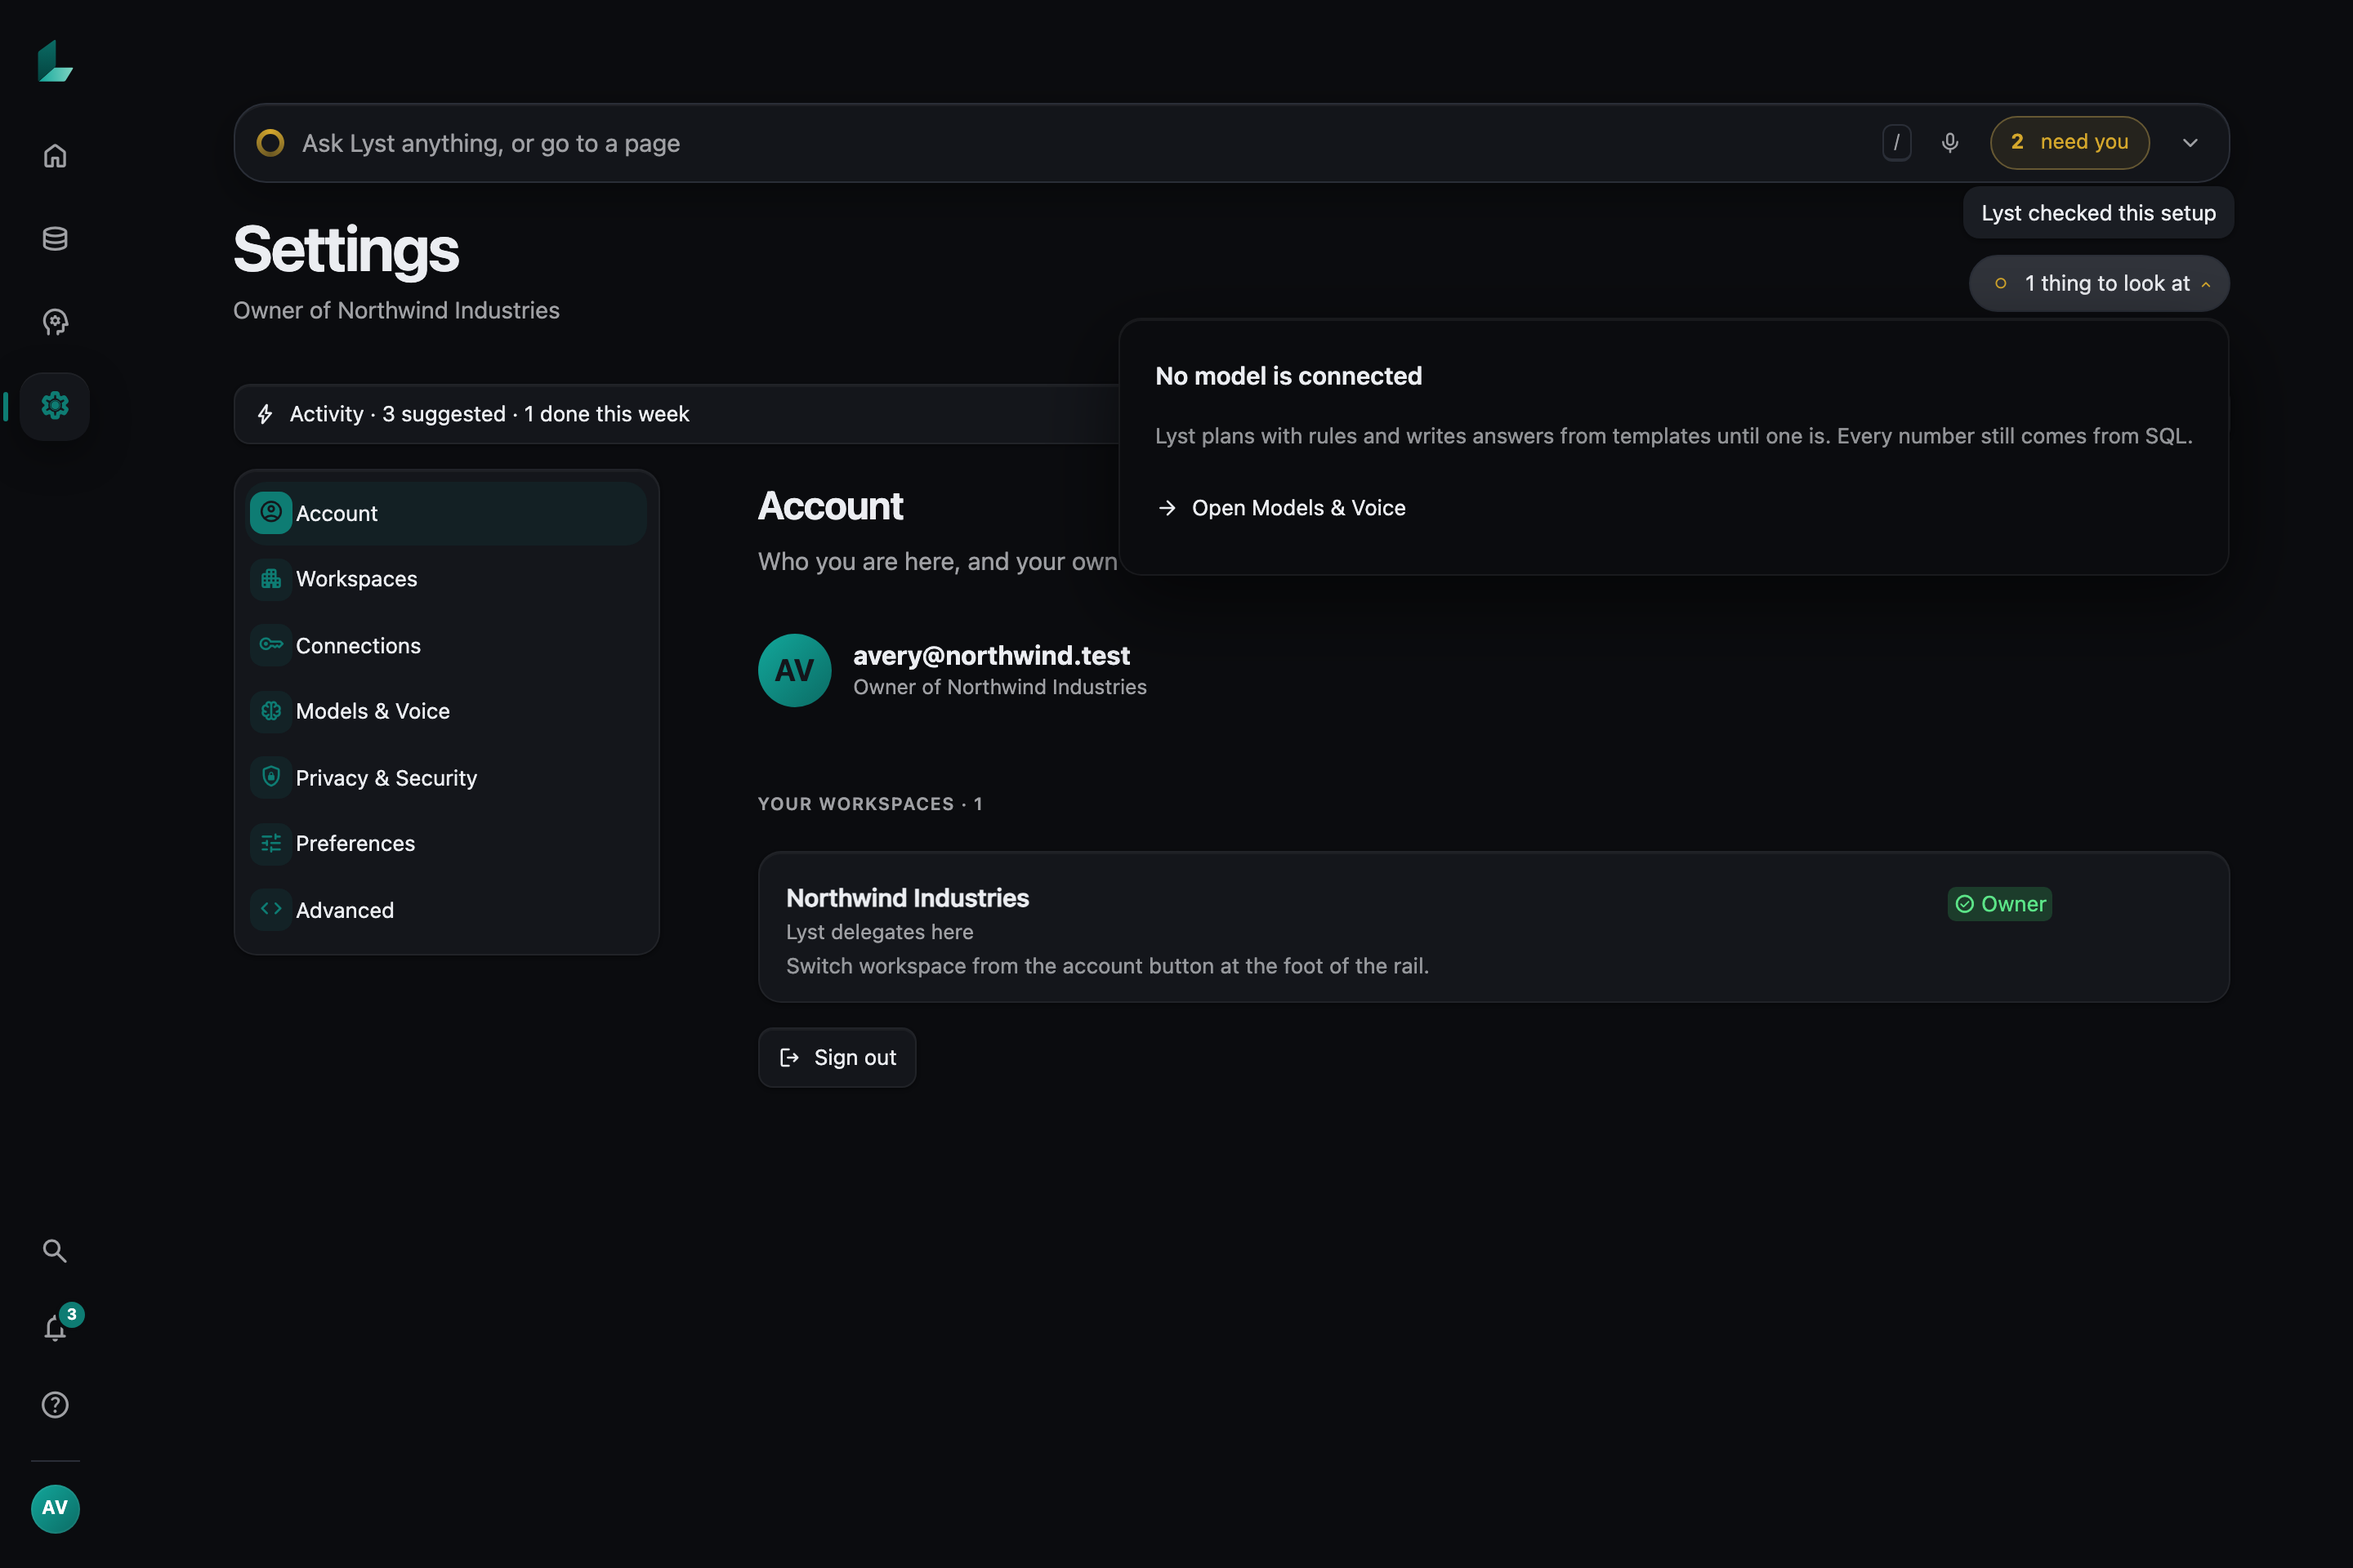
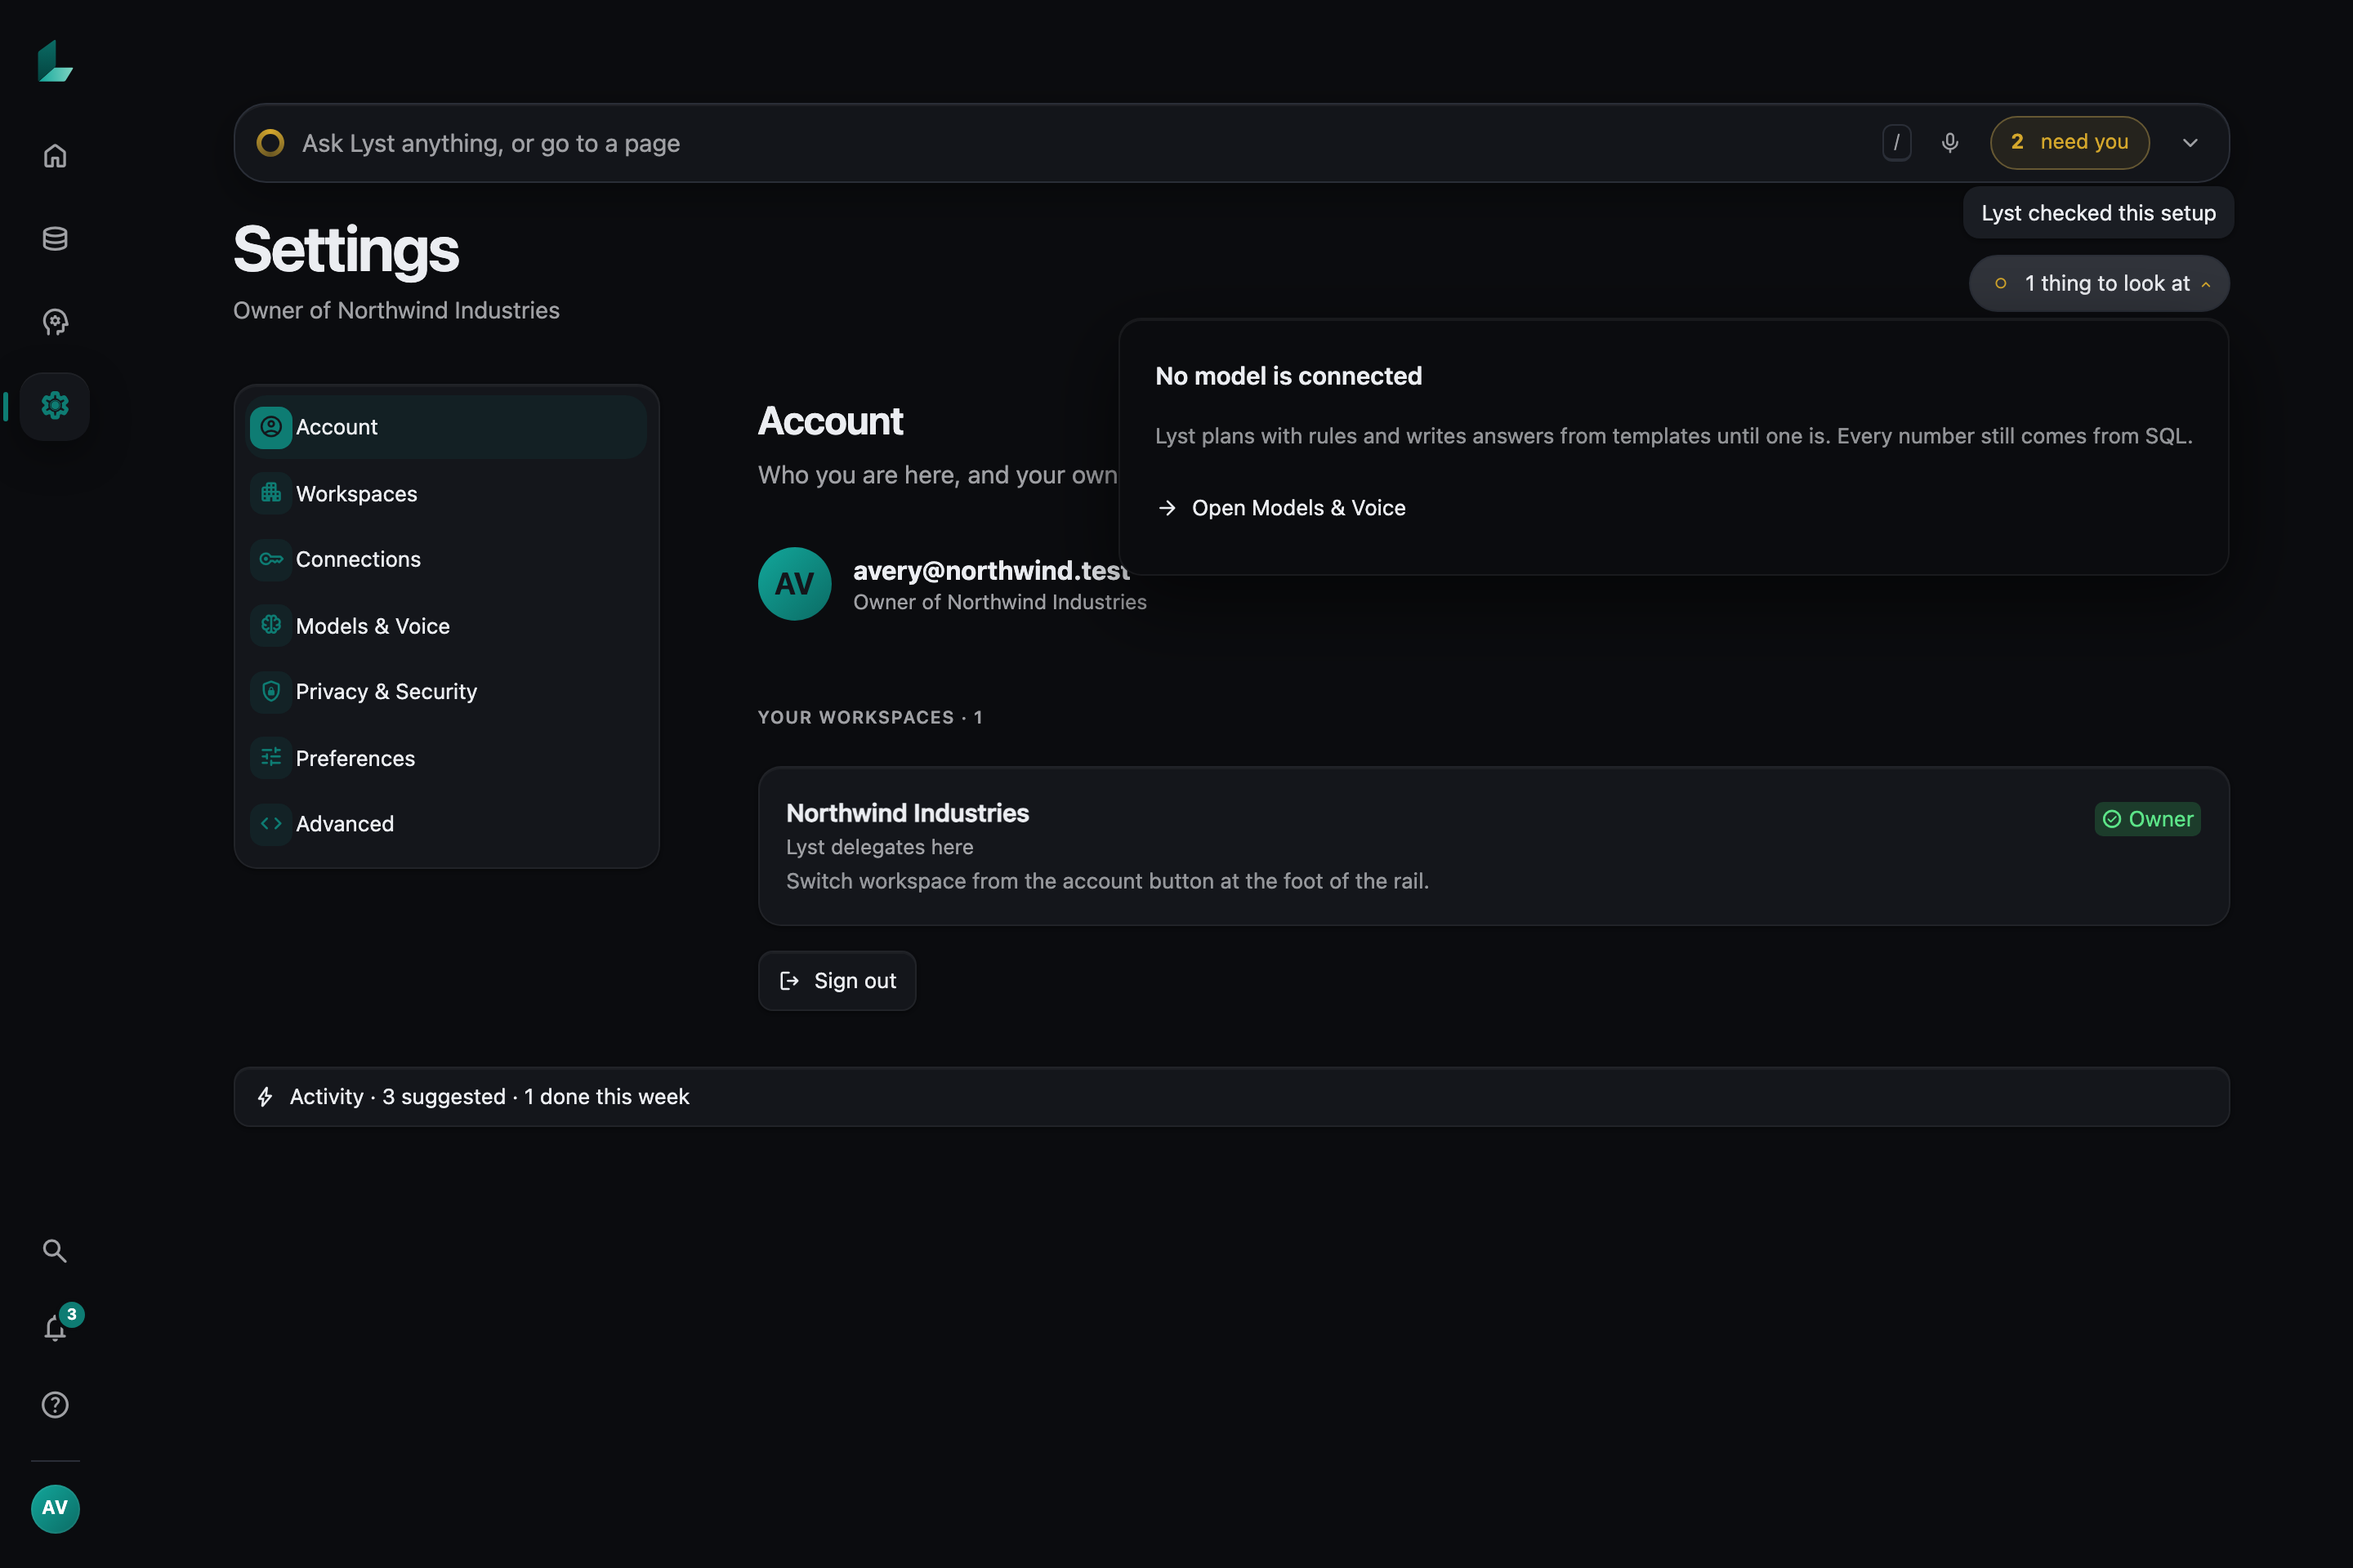
Website: Settings in fewer words, rankings by client and forecasts that skip a half-loaded month
- Settings screenshots retaken from main (#223).
- Transparent task history: the audit trail reads in plain words (#223).
- Analyze: rankings by client, category or region; what-ifs and forecasts read against the last
  complete quarter, never a half-loaded month (#225).

diff --git a/site/src/data/content.ts b/site/src/data/content.ts
@@ -82,8 +82,8 @@ export const capabilities: {
   {
     icon: 'ChartNoAxesCombined',
     title: 'Analyze',
-    text: 'Rigorous quantitative work, end to end. A single figure comes with its recent history, and what-ifs and forecasts read against the same last quarter as every other answer.',
-    items: ['SQL', 'Sandboxed Python workbench', 'Statistics', 'Rankings', 'One named line per region', 'Year over year, for each member', 'Year to date against last year’s', 'Backtested forecasts', 'What-if scenarios', 'Monte Carlo ranges', 'Fiscal quarters and years'],
+    text: 'Rigorous quantitative work, end to end. A single figure comes with its recent history, and what-ifs and forecasts read against the same last complete quarter as every other answer, never a half-loaded month.',
+    items: ['SQL', 'Sandboxed Python workbench', 'Statistics', 'Rankings by client, category or region', 'One named line per region', 'Year over year, for each member', 'Year to date against last year’s', 'Backtested forecasts', 'What-if scenarios', 'Monte Carlo ranges', 'Fiscal quarters and years'],
     status: 'available',
   },
   {
@@ -178,7 +178,7 @@ export const enterprise = {
     { icon: 'UserCheck', title: 'Human-in-the-loop approval', text: 'Approvals show the risk, the effect and how to undo it. In a graph run, anything that cannot be undone waits for a person other than its planner. Approvals also work inside any AI SDK chat, under the same role checks.', status: 'available' as Status },
     { icon: 'Library', title: 'Data contracts and lineage', text: 'Versioned contracts flag breaking upstream changes with every affected metric, dashboard and workflow, and any metric can explain where it comes from. Flagged rows are reviewed in one table, and the fixes Lyst proposes apply only after approval, as a new dataset version you can undo.', status: 'available' as Status },
     { icon: 'KeyRound', title: 'Role-aware access', text: 'Single sign-on, roles, row and column policies and an enforced data policy decide what each person, model and export can see.', status: 'available' as Status },
-    { icon: 'History', title: 'Transparent task history', text: 'Every task has a frozen contract and leaves a receipt for each run. “How this ran” shows the steps, model calls, tokens, queries, time and cost.', status: 'available' as Status },
+    { icon: 'History', title: 'Transparent task history', text: 'Every task has a frozen contract and leaves a receipt for each run. “How this ran” shows the steps, model calls, tokens, queries, time and cost, and the audit trail reads in plain words.', status: 'available' as Status },
     { icon: 'Repeat', title: 'Repeatable, governed learning', text: 'Verified analyses compile into versioned workflows that schedules can rerun; one that keeps failing, or gave an answer a person disputed, is held back with its reason. Only an admin takes back approved memory, and agent-observed memory expires after 365 days by default.', status: 'available' as Status },
     { icon: 'Building2', title: 'Deployment independence', text: 'Private by default: the interface listens only on your machine until you open it up. Scheduled, encrypted backups, each test-restored automatically, and whole workspaces that move in one sealed file. Lyst checks its own setup and opens the setting that fixes a problem.', status: 'available' as Status },
   ],
